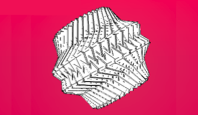
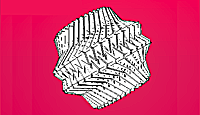
a couple of changes to copy and one thumbnail which was two pixels shorter than it should have been

diff --git a/labs/livecodelabIntro.html b/labs/livecodelabIntro.html
@@ -66,7 +66,7 @@
 						<tr>
 						<td>
 							<h2>Welcome to Livecodelab!</h2>
-							<p>Livecodelab is a place where you can make fancy "on-the-fly" 3d visuals and play awesomely offbeat (literally) sounds.</p>
+							<p>Livecodelab is a special secret place where you can make fancy "on-the-fly" 3d visuals and play awesomely offbeat (literally) sounds.</p>
 							<p>"On-the-fly" meaning: as you type. Type just three letters: "box", and boom! a box appears. No clicking play, no waiting, no nothing.</p>
 							<p>What are you waiting for? Try the magic. Press the button below and play with the examples.</p>
 							<p>(Note: if you use IE, you'll need version 9 or higher.)</p>
@@ -108,7 +108,7 @@
 						<li><a href="http://mrdoob.github.com/three.js/">Three.js</a> inventor <a href="http://mrdoob.com/">Ricardo Cabello aka Mr.Doob</a> and <a href="https://github.com/mrdoob/three.js/network/members">contributors</a> </li>
 						<li><a href="https://github.com/jashkenas/coffee-script">Coffeescript</a> inventor <a href="http://ashkenas.com/">Jeremy Ashkenas</a> and <a href="https://github.com/jashkenas/coffee-script/network/members">contributors</a> </li>
 						<li>Some routines taken from <a href="http://processingjs.org/">processing.js library</a> started by <a href="http://ejohn.org/">J. Resig</a> and maintained by <a href="http://github.com/jeresig/processing-js/network/members">a wide community of programmers</a>. </li>
-						<li>The code text editor is <a href="http://marijn.haverbeke.nl/codemirror/">Code Mirror</a> by <a href="http://marijn.haverbeke.nl/">Marijn Haverbeke</a></li>
+						<li>The code editor is <a href="http://marijn.haverbeke.nl/codemirror/">Code Mirror</a> by <a href="http://marijn.haverbeke.nl/">Marijn Haverbeke</a></li>
 						<li><a href="http://www.pawfal.org/fluxus/">Fluxus</a>, a really cool livecoding framework to which we are much in debt, by the <a href="http://www.pawfal.org/index.php?page=PawfalPeople">Pawfal collective</a></li>
 						<li>Very special thanks to <a href="http://yaxu.org/">Alex McLean aka Yaxu</a> and <a href="http://www.pawfal.org/dave/">David Griffith aka NeboGeo</a> for inspiration</li>
 						<li>The<a href="http://toplap.org/index.php?title=Main_Page">TOPLAP</a> collective for keeping high the live coding flag.</li>

diff --git a/about.html b/about.html
@@ -131,7 +131,7 @@
 						<li><a href="http://tim-ryan.com">Tim Ryan</a> for the use of his <a href="http://tim-ryan.com">Processing.as</a> interpreter </li>
 						<li>The sketches also work on non-flash enabled devices - that's thanks to the <a href="http://processingjs.org/">processing.js library</a> started by <a href="http://ejohn.org/">J. Resig</a> and maintained by <a href="http://github.com/jeresig/processing-js/network/members">a wide community of programmers</a>. </li>
 						<li>Logo design made with the <a href="http://ahmedriaz.com/mind/2009/03/splatter2/">Splatter machine (professional napkin sketcher)</a> by <a href="http://www.ahmedriaz.com">Ahmed Riaz</a></li>
-						<li>The code text editor is <a href="http://marijn.haverbeke.nl/codemirror/">Code Mirror</a> by <a href="http://marijn.haverbeke.nl/">Marijn Haverbeke</a></li>
+						<li>The code editor is <a href="http://marijn.haverbeke.nl/codemirror/">Code Mirror</a> by <a href="http://marijn.haverbeke.nl/">Marijn Haverbeke</a></li>
 						<li><a href="http://onehackoranother.com/projects/jquery/boxy/">Boxy</a> jquery dialog box by <a href="http://onehackoranother.com/">Jason Frame</a></li>
 						<li>Rounded corners by <a href="http://www.netzgesta.de/">Christian Effenberger</a> using his <a href="http://www.netzgesta.de/corner/">justcorners.js</a></li>
 						<li>The bubble on front page is a <a href="http://bassistance.de/jquery-plugins/jquery-plugin-tooltip/">jquery tool tip</a> by <a href="http://bassistance.de/">Jorn Zaefferer</a></li>
